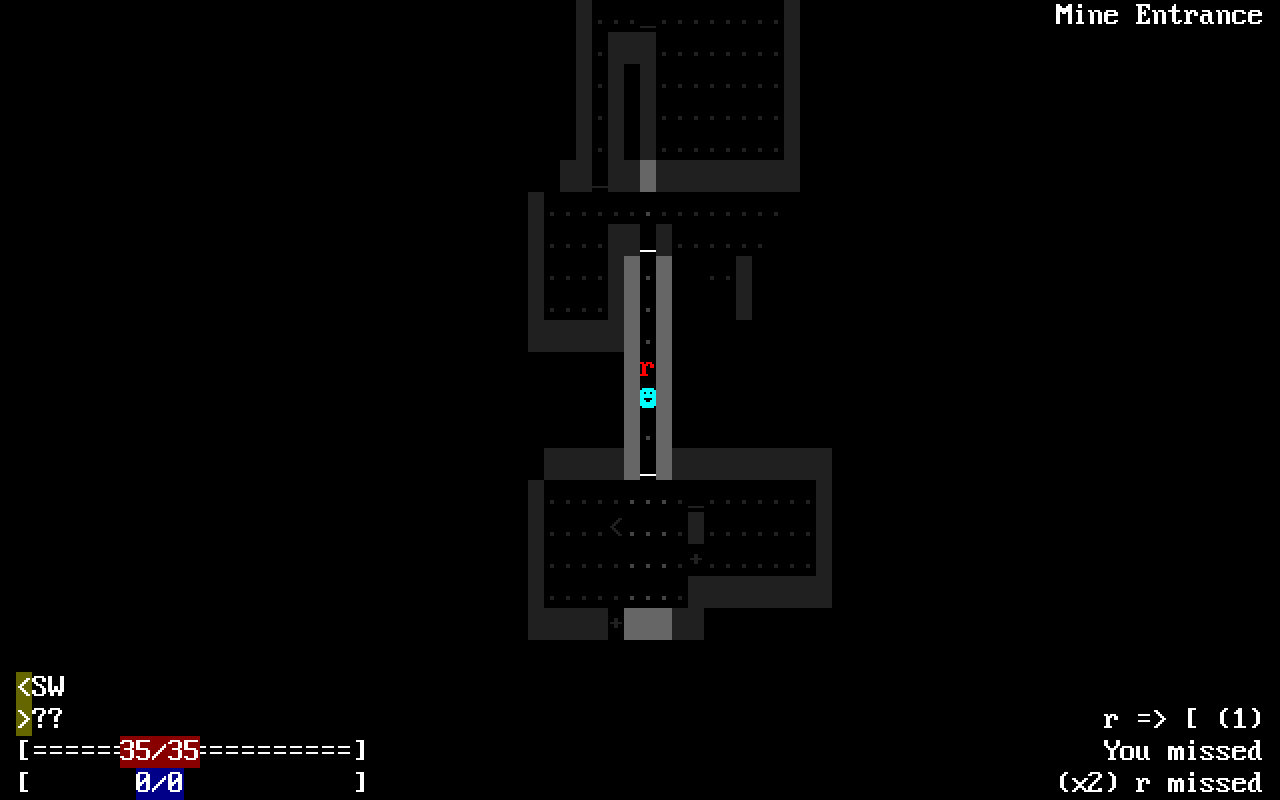
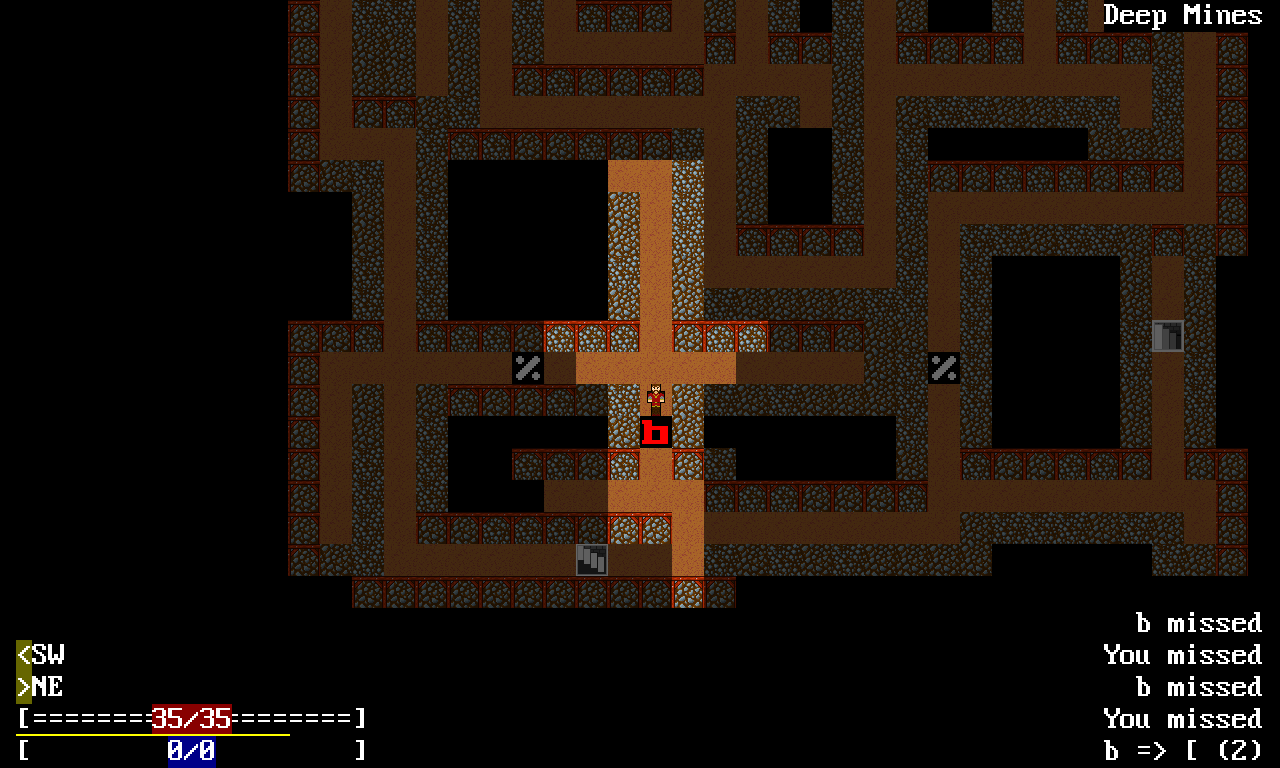
chore: updated screenshot(s)

diff --git a/src/states/gamestate.cpp b/src/states/gamestate.cpp
@@ -59,11 +59,14 @@ int GameState::GetKeyDown()
 
         if (sc == SDL_SCANCODE_F12)
         {
-          GameStates s = GameStates::MESSAGE_BOX_STATE;
-          if (Game::gApp.CurrentStateIs(s))
-          {
-            Game::gApp.CloseMessageBox();
-          }
+          //
+          // Some screens can't be screenshotted if we do this.
+          //
+          //GameStates s = GameStates::MESSAGE_BOX_STATE;
+          //if (Game::gApp.CurrentStateIs(s))
+          //{
+          //  Game::gApp.CloseMessageBox();
+          //}
 
           TakeScreenshot();
         }
@@ -213,10 +216,17 @@ void GameState::TakeScreenshot()
   SDL_SaveBMP(sshot, fname.data());
   SDL_FreeSurface(sshot);
 
-  Game::gApp.ShowMessageBox(MessageBoxType::WAIT_FOR_INPUT,
-                            "Screenshot Taken",
-                            { fname },
-                            Colors::MessageBoxBlueBorder);
+  //
+  // Showing graphics during screenshot taking can cause problems (e.g. you'll
+  // screenshot the message box with notification about screenshot on top of
+  // what you wanted to).
+  // So let's just leave log output.
+  //
+  //Game::gApp.ShowMessageBox(MessageBoxType::WAIT_FOR_INPUT,
+  //                          "Screenshot Taken",
+  //                          { fname },
+  //                          Colors::MessageBoxBlueBorder);
+
   DebugLog("Wrote %s", fname.data());
 }
 #endif

diff --git a/src/levels/map-level-town.cpp b/src/levels/map-level-town.cpp
@@ -866,14 +866,22 @@ void MapLevelTown::CreateChurch(int x, int y)
 
         case 'h':
         {
-          t.Set(false,
-                false,
-                c,
-                Colors::Wood,
-                Colors::Black,
-                Strings::TileNames::WoodenBench,
-                "?" + Strings::TileNames::WoodenBench + "?");
-          PlaceStaticObject(posX, posY, t);
+          PlaceGroundTile(posX,
+                          posY,
+                          '-',
+                          Colors::WoodPlankSeam,
+                          Colors::RoomFloor,
+                          Strings::TileNames::WoodenFloor,
+                          GraphicTiles::TILES_DIAMOND_WHITE_BROWN);
+
+          //t.Set(false,
+          //      false,
+          //      c,
+          //      Colors::Wood,
+          //      Colors::Black,
+          //      Strings::TileNames::WoodenBench,
+          //      "?" + Strings::TileNames::WoodenBench + "?");
+          //PlaceStaticObject(posX, posY, t);
         }
         break;
 
